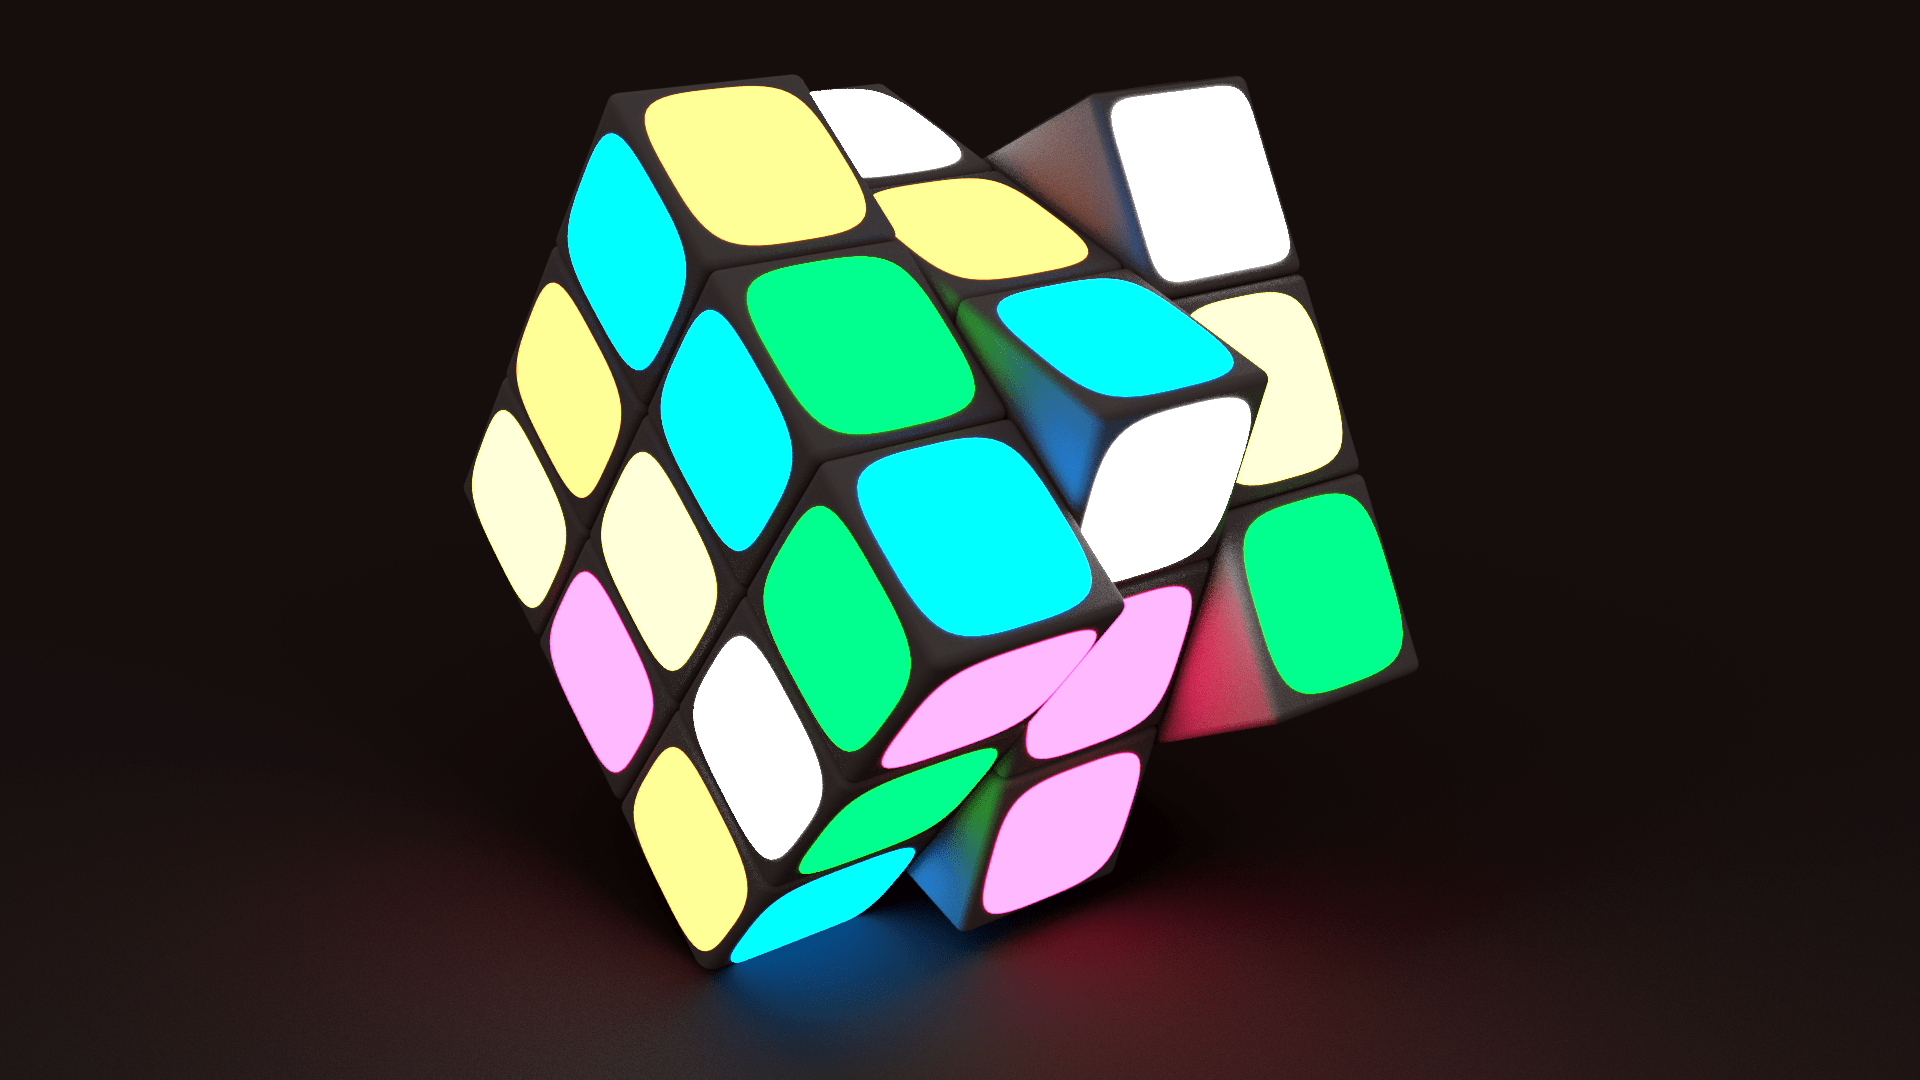
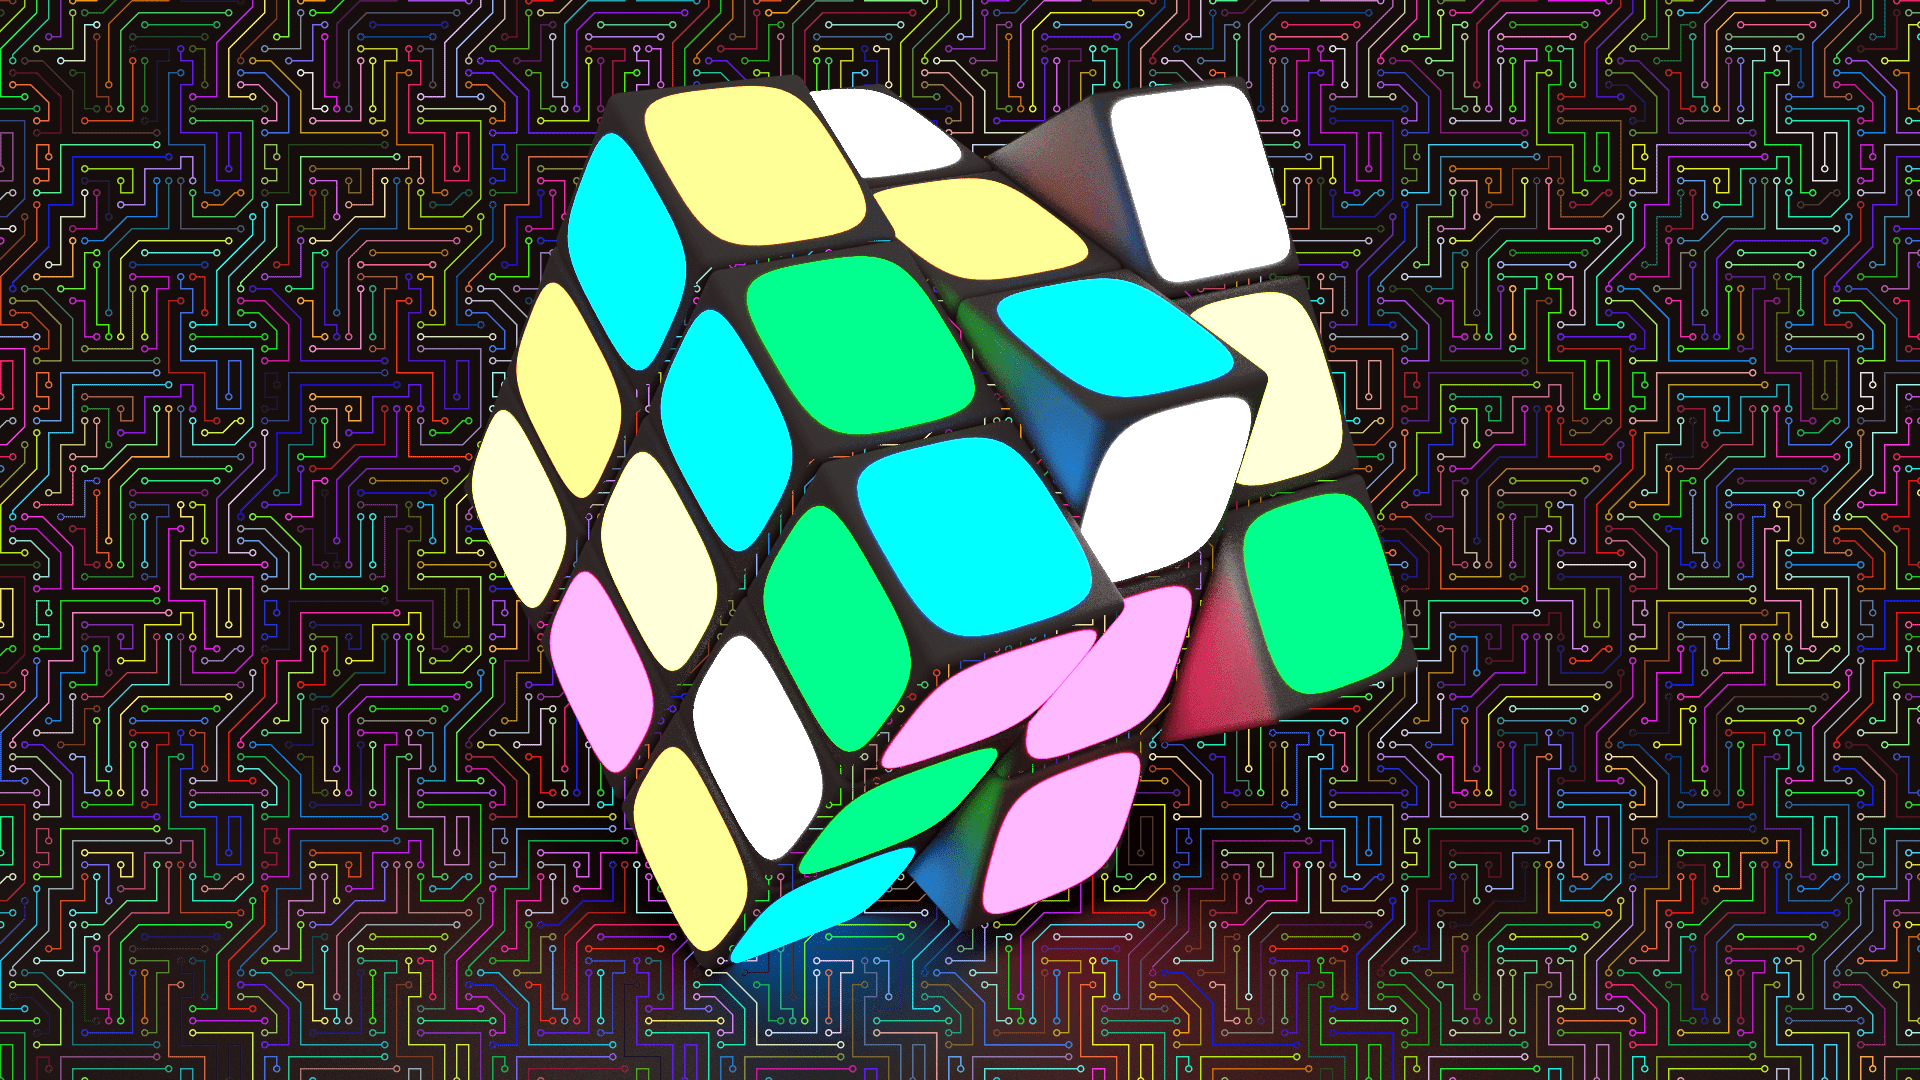
Update article cover with two merged pictures

Changed region(s): [[0.0, 0.0, 1.0, 1.0], [0.4375, 0.7028, 0.4688, 0.7333]]

diff --git a/swe/diary/troubleshooting/troubleshooting-diary/images/notice.md b/swe/diary/troubleshooting/troubleshooting-diary/images/notice.md
@@ -1,6 +1,15 @@
 # Notice
 
-- [Cover](cover.png):
-  - From: [Rubiks Cube Rubik | Pixabay](https://pixabay.com/illustrations/rubiks-cube-cube-rubik-puzzle-toy-2583645)
-  - By  : [AlexAntropov86](https://pixabay.com/users/alexantropov86-2691829)
-  - Under the [Pixabay License](https://pixabay.com/service/terms)
+## Cover
+
+<img src="cover.png" width="160px">
+
+[Cover](cover.png):
+
+- From: 
+  - [Rubiks Cube Rubik | Pixabay](https://pixabay.com/illustrations/rubiks-cube-cube-rubik-puzzle-toy-2583645)
+    by [AlexAntropov86](https://pixabay.com/users/alexantropov86-2691829)
+  - [Computer Cyber Circuitry | Pixabay](https://pixabay.com/vectors/computer-cyber-circuitry-circuits-3163437)
+    by [GDJ](https://pixabay.com/users/gdj-1086657)
+- Under the [Pixabay License](https://pixabay.com/service/terms)
+- Changes: Merge both pictures

diff --git a/swe/diary/troubleshooting/troubleshooting-diary/index.md b/swe/diary/troubleshooting/troubleshooting-diary/index.md
@@ -6,17 +6,7 @@
 
 ![Cover](images/cover.png)
 
-<figcaption>
-
-Image from
-<it>
-<a href="https://pixabay.com/illustrations/rubiks-cube-cube-rubik-puzzle-toy-2583645">
-Pixabay
-</a>
-</it>
-by <a href="https://pixabay.com/users/alexantropov86-2691829">AlexAntropov86</a>
-
-</figcaption>
+Image from [Pixabay](/troubleshooting-diary/images#cover)
 
 ---
 
